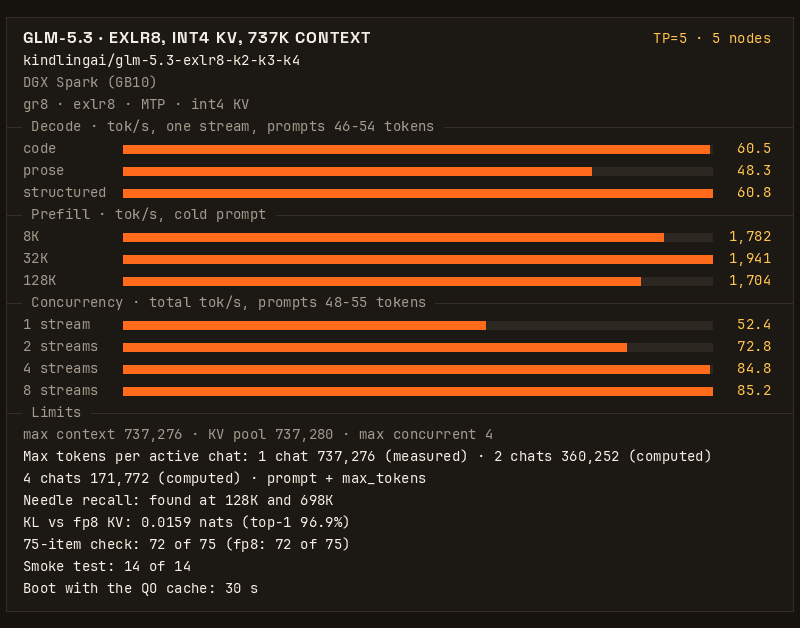
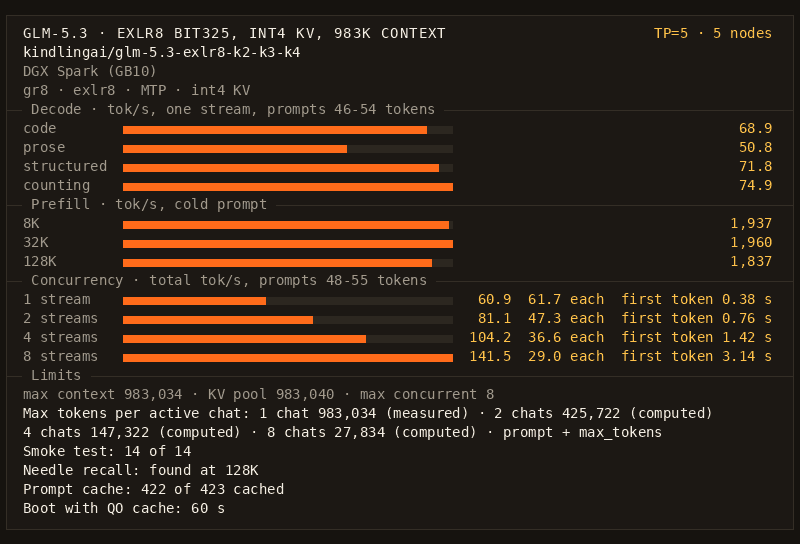
Pin gr8 v1.1.0, v0.6 bit325, 983K pool, MTP=3, SESS=8, and updated card (#4)

Changed region(s): [[0.0312, 0.0312, 0.9688, 0.9688], [0.9062, 0.0312, 0.9688, 0.0938], [0.8125, 0.0312, 0.8438, 0.0625]]

diff --git a/README.md b/README.md
@@ -1,114 +1,82 @@
-# KindlingAI: GLM-5.3 EXLR8 on five DGX Sparks (737K context)
+# KindlingAI: GLM-5.3 EXLR8 on five DGX Sparks (983K context)
 
 If you are an agent booting this for someone, read [AGENTS.md](AGENTS.md) first, then the Quickstart.
 
 _**Join our discord to learn more about KindlingAI and `gr8`: https://discord.gg/8EAvYPV2rE**_
 
-Full GLM-5.3 on five DGX Sparks (GB10, 128 GB each) at TP=5, served by [gr8](https://github.com/kindlingai/gr8) from
-[kindlingai/glm-5.3-exlr8-k2-k3-k4](https://huggingface.co/kindlingai/glm-5.3-exlr8-k2-k3-k4), tuned for 737K context:
-a 737,280-token int4 KV pool, four chats at once, and a QO cache that cuts the boot to under a minute. This recipe is the
-published gr8 image, pinned by digest, and one `.env` file. Nothing is compiled.
+Full GLM-5.3 on five DGX Sparks (GB10, 128 GB each) at TP=5, served by [gr8](https://github.com/kindlingai/gr8) `v1.1.0` from
+the `bit325` width profile of [kindlingai/glm-5.3-exlr8-k2-k3-k4](https://huggingface.co/kindlingai/glm-5.3-exlr8-k2-k3-k4/tree/3e388b45b26ca4558351d22994afcfc85b99af74) (v0.6):
+a 983,040-token int4 KV pool, MTP=3 drafting with confidence stopping, up to 8 concurrent chats, 8.8+ GiB free RAM per box,
+and a QO cache for ~60 s boots. This recipe is the published gr8 image, pinned by digest, and one `.env` file. Nothing is compiled.
 
-![GLM-5.3 on five DGX Sparks, 737K context: decode, prefill and limits](docs/card.png)
+![GLM-5.3 on five DGX Sparks, 983K context: decode, prefill and limits](docs/card.png)
 
-60.5 tok/s for one request writing code · 1,941 tok/s prefill on a 32K prompt · 4 requests at once, 84.8 tok/s in
-total · a 737,280-token KV pool · a fact hidden in a 698K prompt found · boot in 30 s
+68.9 tok/s for one request writing code · 1,960 tok/s prefill on a 32K prompt (1,837 tok/s at 128K) · 8 requests at once, 141.5 tok/s in total (160.5 tok/s in fast mode) · 8.8+ GiB free memory per box · a 983,040-token KV pool · a fact hidden in a 128K prompt found · boot in 60 s
 
 ## Results
 
-Five DGX Sparks on one switch, TP=5, this recipe's `.env` (int4 KV, the default) under Docker Compose on the gr8 image
-`sha-a555ee2` (one commit before the pinned v1.0; see [Engine pin](#engine-pin)), measured 2026-11-11 with gr8's own benchmark (`bench/bench.py`, default level), one boot.
-GPU clocks were uncapped in the timed stages. Every speed is in tokens per second (tok/s).
+Five DGX Sparks on a 200G switch, TP=5, `gr8 v1.1.0` (`cdd1e09`), this recipe's `.env` (`bit325` v0.6 experts, int4 KV, MTP=3 with confidence stopping, quality default `MOE_UNION_CAP=48`), measured 2026-11-20 with gr8's own benchmark (`bench/bench.py`, default level), one fresh boot. GPU clocks were uncapped in the timed stages. Every speed is in tokens per second (tok/s).
 
 One request, short prompts (46-54 tokens, up to 512 tokens out, 6 runs each):
 
 | work | code | prose | structured | counting |
 |---|---|---|---|---|
-| tok/s, mean | 60.5 | 48.3 | 60.8 | 62.0 |
-| 95% interval | 59.3 - 61.8 | 46.6 - 49.8 | 60.5 - 61.1 | 61.7 - 62.3 |
+| tok/s, mean | 68.9 | 50.8 | 71.8 | 74.9 |
+| lowest - highest run | 65.0 - 71.4 | 47.1 - 54.2 | 68.2 - 74.3 | 74.3 - 75.5 |
+| 95% interval | 67.2 - 70.6 | 48.8 - 52.7 | 70.2 - 73.2 | 74.6 - 75.3 |
 
 Prefill, cold prompt (one run each):
 
 | prompt | first token | prefill tok/s | decode after it | first token, same prompt again (cached) |
 |---|---|---|---|---|
-| 8K tokens | 4.6 s | 1,782 | 37.3 tok/s | 0.19 s |
-| 32K tokens | 16.8 s | 1,941 | 35.2 tok/s | 0.19 s |
-| 128K tokens | 76.8 s | 1,704 | 32.5 tok/s | 0.37 s |
+| 8K tokens | 4.25 s | 1,937 | 48.0 tok/s | 0.07 s |
+| 32K tokens | 16.74 s | 1,960 | 36.7 tok/s | 0.25 s |
+| 128K tokens | 71.34 s | 1,837 | 36.4 tok/s | 0.46 s |
 
 Requests at once (short mixed prompts, 48-55 tokens, up to 512 tokens out each):
 
 | requests at once | 1 | 2 | 4 | 8 |
 |---|---|---|---|---|
-| total tok/s | 52.4 | 72.8 | 84.8 | 85.2 |
-| tok/s per request | 53.0 | 39.6 | 26.1 | 25.8 |
-| first token, median | 0.39 s | 0.68 s | 1.43 s | 7.4 s |
+| total tok/s (quality default, `MOE_UNION_CAP=48`) | 60.9 | 81.1 | 104.2 | 141.5 |
+| tok/s per request (quality default) | 61.7 | 47.3 | 36.6 | 29.0 |
+| first token, median | 0.38 s | 0.76 s | 1.42 s | 3.14 s |
 
-Four chats decode at once (`SESS=4`). With eight requests, four wait for a slot: that is the 7.4 s first token.
+### Speed and quality presets (`MOE_UNION_CAP`)
 
-Checks on the same boot:
+`gr8 v1.1.0` enables seven bit-exact decode and prefill kernels (`KL = 0.00000`), `DEC_BK_MAX=2048` (raising free memory per box from 2.8 GiB to 8.8+ GiB even with a 33% larger KV pool and 8 sessions), and a batch-budgeted MoE expert union cap (`MOE_UNION_CAP`):
+
+| preset (`.env`) | code decode | 4 streams total (per req) | 8 streams total (per req) | prefill 8K / 32K / 128K |
+|---|---:|---:|---:|---:|
+| **Quality (default, `MOE_UNION_CAP=48`)** | 68.9 tok/s | 104.2 (36.6) tok/s | 141.5 (29.0) tok/s | 1,937 / 1,960 / 1,837 tok/s |
+| **Fast (`MOE_UNION_CAP=32`)** | 69.3 tok/s | 119.6 (42.2) tok/s | 160.5 (33.9) tok/s | 1,979 / 2,010 / 1,826 tok/s |
+| **Uncapped exact (`MOE_UNION_CAP=0`)** | 69.2 tok/s | 89.5 (30.8) tok/s | 110.5 (18.5) tok/s | 1,986 / 2,059 / 1,855 tok/s |
+
+All three presets were measured on fresh boots on 2026-11-20 (`bench/bench.py` default level for Quality and Uncapped exact, `--quick` for Fast, 0 suspect characters across all three runs).
+
+### How long each chat can be
+
+The KV pool holds 983,040 tokens (3,481 physical pages of 64 tokens per rank). The first 32,768 tokens (`SHARE_LIMIT`) of each chat are stored on every box, and the rest is spread across the five boxes. Each active chat reserves its prompt plus `max_tokens`:
+
+| active chats | 1 | 2 | 3 | 4 | 8 |
+|---|---:|---:|---:|---:|---:|
+| tokens per chat, equal split | 983,034 | 425,722 | 240,122 | 147,322 | 27,834 |
+
+The 1-chat value is measured (the served `max_model_len`); the multi-chat values are computed from the pool size (3,481 physical pages per rank). Up to 8 chats decode simultaneously (`SESS=8`). A finished chat's cached prefix does not count against active chats.
+
+Checks on the same `v1.1.0` default boot:
 
 | check | result |
 |---|---|
 | smoke test | 14 of 14 |
-| fact hidden in a 131,213-token prompt | found |
-| fact hidden in a 698,500-token prompt (a separate request on the same boot) | found; first token after 630 s |
+| fact hidden in a 131,270-token prompt | found |
 | count to 200, three times | 3 of 3 clean |
-| KL against the fp8 KV format, 4,096 positions | mean 0.0159, top-1 agreement 96.9% |
-| 75-item quality check (code, math, prose) | 72 of 75; the fp8 KV format scored 72 of 75 on the same boxes that night |
-| longest context (`max_model_len`) | 737,276 tokens |
-| boot to `/health` 200 with the QO cache | 30 s (model already on disk) |
-| lowest `MemAvailable` recorded on any box, 698K prompt included | 2.82 GiB |
+| prompt cache | 422 of 423 cached |
+| suspect characters | 0 replies |
+| longest context (`max_model_len`) | 983,034 tokens |
+| boot to `/health` 200 with the QO cache | 60 s (model already on disk) |
+| lowest `MemAvailable` recorded on any box | 8.77 GiB after bench (9.30 - 9.43 GiB after boot) |
 
-The boot that writes the QO cache took 99 s and 104 s (two boots, both with fp8 KV, [below](#fp8-kv-the-rollback)).
-The int4 boot read the cache that an fp8 boot wrote.
-
-### How long each chat can be
-
-The KV pool holds 737,280 tokens. The first 4,096 tokens of each chat are stored on every box, and the rest is spread
-over the five boxes. So the limit for each chat (prompt plus `max_tokens`) depends on how many chats are active:
-
-| active chats | 1 | 2 | 4 |
-|---|---:|---:|---:|
-| tokens per chat, equal split | 737,276 | 360,252 | 171,772 |
-
-The 1-chat value is the served `max_model_len`; the longest prompt that was run is 698,500 tokens. The 2-chat and
-4-chat values are computed from the pool size (2,355 pages of 64 tokens per box, from the boot log), not measured.
-`SESS=4`: a fifth chat waits. A finished chat's cached prefix does not count against active chats.
-
-int4 KV stores the attention latent in 4 bits: a row is 416 bytes, against 656 with fp8. The pool is 20% larger and
-uses less memory (7.0 GB a box with the MTP pool, against 8.5 GB).
-
-### fp8 KV (the rollback)
-
-`.env.example` has two commented lines (`KV_FORMAT=fp8`, `CAP=617536`) that give the earlier KV format. Measured
-2026-11-11 on the same image and boxes, one boot, the same benchmark, with this repo's `compose.yaml`:
-
-| measure | fp8 KV |
-|---|---|
-| one request: code / prose / structured / counting | 61.9 / 48.8 / 61.8 / 63.1 tok/s |
-| prefill, cold 8K / 32K / 128K | 1,774 / 1,878 / 1,743 tok/s |
-| 1 / 2 / 4 / 8 requests at once, total | 56.1 / 69.8 / 81.6 / 87.0 tok/s |
-| longest context (`max_model_len`) | 617,532 tokens |
-| tokens per chat with 1 / 2 / 4 active chats | 617,532 / 300,412 / 142,012 (2 and 4 computed from 1,981 pages a box) |
-| boot to `/health` 200: first boot (writes the QO cache) / later boots | 99 s / 28 s |
-| lowest `MemAvailable` recorded on any box | 1.97 GiB; 1.78 GiB on a second fp8 boot that night |
-
-### Earlier measurements (October 2026)
-
-This TP=5 setup was first measured on 2026-10-19 on a pre-release TP=5 build of gr8, on bare metal, with the GPU clock
-capped at 2000 MHz and a steering profile loaded (this recipe ships none). These rows have no match in the benchmark
-above:
-
-| measure | value |
-|---|---|
-| first token, 157K prompt | 115.8 s (mean of 2) |
-| decode at 157K context | 24.5 tok/s |
-| 90K chat decode: 1 chat / 4 chats total | 25.8 / 44.1 tok/s (means of 2) |
-| 15 minutes of mixed agent load | 107 requests, 0 errors |
-| 4 chats of 139K at once | all resident, next-turn first token 5.0-5.6 s |
-| fact hidden at 437K | found |
-
-[kindling.json](kindling.json) has the card's numbers in a form a program can read.
+[kindling.json](kindling.json) has these numbers in a form a program can read. The card above is drawn from it.
 
 ## Quickstart
 
@@ -124,7 +92,7 @@ docker compose up -d       # pulls the pinned gr8 image; the first boot fetches 
 docker compose logs -f     # this box's supervisor; ready when the cluster serves
 ```
 
-The first boot also writes the QO cache (13 GB a box) to `/srv/gr8/cache/qocache`. Later boots read it. The engine
+The first boot also writes the QO cache (13 GB a box) to `/srv/gr8/cache/qocache`. Later boots read it (~60 s). The engine
 does not make that directory: without the `mkdir` line no cache is written, and every boot takes the long time.
 For another place, change `GR8_CACHE` in `.env` and make its `qocache` directory the same way.
 
@@ -132,7 +100,7 @@ Then, on the head (the first address in `PEERS`):
 
 ```bash
 docker compose exec gr8 /opt/gr8/gr8 glm53 smoke
-curl -s localhost:8100/v1/models      # max_model_len 737276
+curl -s localhost:8100/v1/models      # max_model_len 983034
 ```
 
 The head serves an OpenAI-compatible API on port 8100. Stop the cluster with
@@ -140,39 +108,26 @@ The head serves an OpenAI-compatible API on port 8100. Stop the cluster with
 
 ## What you need
 
-- Five DGX Sparks or other GB10 boxes (128 GB unified memory), with nothing else holding much memory. The lowest
-  `MemAvailable` measured was 2.82 GiB (1.78 GiB with fp8 KV), so a box runs this model and nothing else.
+- Five DGX Sparks or other GB10 boxes (128 GB unified memory), with nothing else holding much memory (8.8+ GiB free
+  per box measured at `CAP=983,040`).
 - A RoCE v2 fabric between the ConnectX-7 ports through one 200G switch. Five boxes do not work as a ring.
 - A LAN between the boxes with TCP ports 7340 and 7341 open.
 - Docker with the NVIDIA container toolkit (DGX OS has both).
-- About 90 GB of disk a box for the model and 13 GB for the QO cache.
+- About 75 GB of disk a box for the model (`~59.9 GB` of experts on the busiest rank at TP=5) and 13 GB for the QO cache.
 - Proactive memory compaction off on every box:
   `sudo sysctl -w vm.compaction_proactiveness=0` (gr8's
   [DEPLOY.md](https://github.com/kindlingai/gr8/blob/main/docs/DEPLOY.md#before-you-start) has the permanent form).
 
-## The 737K-context settings
+## The 983K-context settings
 
-This recipe uses the decode settings of gr8's four-box setup, plus five settings measured at TP=5 (`GR8_K1_TLBW=2048`,
-`PF_GEMMF32=1`, `ATTN_CTX3=4`, `PF_ISGRT_RG=32`, `PF_ATTN_ROWS=512`), plus:
+Every line is in [.env.example](.env.example). Highlights over the `v1.0` recipe:
 
-- `PF_OWN=3` with `QO_CACHE`: the boot took 30 s with the cache and 99-104 s on the boots that wrote it.
-- `KV_FORMAT=int4` with `CAP=737280`, and five `GR8_KV4_*` settings in `EXTRA_ENV` for the int4 attention kernels.
-- `KVB=fp8`, `MTP=2`, `SESS=4`, `SHARE_LIMIT=4096`.
+- `gr8 v1.1.0` with `bit325` v0.6 weights, seven bit-exact decode/prefill kernels, `DEC_BK_MAX=2048`, and `MOE_UNION_CAP=48` (`32` for fast concurrency, `0` for uncapped exact).
+- `MTP=3` with solo (`MTP_KSTOP`) and shared-batch (`MTP_KSTOPB`) confidence stopping, `MTP_LASTROW=1`, `DRAFT_HEAD2=1`, `L2PF=31`, `MTP_L2PF=3`.
+- `KV_FORMAT=int4` with `KVB=bf16`, `KV4_FOLD=1`, `KV4_TC=1`, `CAP=983,040`, `SHARE_LIMIT=32,768`, `SESS=8`, and `REUSE_GRID=64`.
+- `PF_OWN=3` with `QO_CACHE` and `PF_GEMMF32=1`.
 
-Every line is in [.env.example](.env.example). gr8's
-[SETTINGS.md](https://github.com/kindlingai/gr8/blob/main/docs/SETTINGS.md) explains each setting.
-
-Tried at TP=5 in October 2026, on the pre-release build, and left off:
-
-| setting | what happened |
-|---|---|
-| `GR8_L2PF` | 0.4 GB less free memory, no gain under mixed load |
-| `PF_OWNPERM=1` | the output changes (prefill KL 0.0031), 8K prefill 6.7% slower |
-| `QA_SPLIT=2` | 32K prefill 5% slower |
-| `SHARE_LIMIT=8192` | the fourth 128K chat is evicted, 90K decode 4% slower |
-
-`KV_FORMAT=int4` was also tried then, with `CAP=810496`: 1 to 4% slower, and left off. gr8 has faster int4 kernels
-since; on the `sha-a555ee2` image int4 is this recipe's default, at `CAP=737280` ([Results](#results)).
+gr8's [SETTINGS.md](https://github.com/kindlingai/gr8/blob/main/docs/SETTINGS.md) explains each setting.
 
 ## Option: remote KV on a sixth Spark (experimental)
 
@@ -184,8 +139,6 @@ This was measured on 2026-10-20 as test runs on a pre-release build. It was neve
 
 - 10 chats of about 22K on a reduced pool, 30 requests per arm: median first token on restore 2.03 s with the store,
   14.24 s without it. Outputs equal 30 of 30.
-- On the full TP=5 settings: 8K / 32K prefill 1,570 / 1,545 tok/s and prose decode 39.5 tok/s (inside the noise of
-  the October numbers for the same build: 1,572 / 1,569 / 39.8). A fact hidden at 500,460 tokens was found. Lowest free memory 2.45 GB.
 - 4 chats of about 97.5K, pushed out of the pool by a 355K prompt, came back from the sixth box with a first token
   in 1.26-5.51 s. A full prefill takes about 67 s.
 - Limits: the sixth box locks 106 GiB of RAM; five boxes share its one 200G port; the store is empty after a
@@ -208,17 +161,13 @@ This recipe has no engine code. It runs one published gr8 image, named by tag an
 
 | | |
 |---|---|
-| engine | [kindlingai/gr8](https://github.com/kindlingai/gr8) [`v1.0`](https://github.com/kindlingai/gr8/releases/tag/v1.0) at [`db6f2c1`](https://github.com/kindlingai/gr8/commit/db6f2c17c7b05303b69ce667e416d10340aeb9b7) |
-| image | `ghcr.io/kindlingai/gr8:v1.0` |
-| digest | `sha256:11ff2823184b0512ae62e0f1c281c46941cfb0fd81096e1dac4c313ad3fe9413` |
+| engine | [kindlingai/gr8](https://github.com/kindlingai/gr8) [`v1.1.0`](https://github.com/kindlingai/gr8/releases/tag/v1.1.0) at [`cdd1e09`](https://github.com/kindlingai/gr8/commit/cdd1e0931047f55bba8f682a0ae79c4198668ca3) |
+| image | `ghcr.io/kindlingai/gr8:v1.1.0` |
+| digest | `sha256:b22eedbd7902f65dbf2090897d75f5d92276cbf78a16bcde1f958aa56a306cf7` |
 
-The results above were measured on the image of gr8 commit [`a555ee2`](https://github.com/kindlingai/gr8/commit/a555ee2a078946332769b5cd412ba3c73c46e242) (`ghcr.io/kindlingai/gr8:sha-a555ee2`). v1.0 is one commit after it, and that commit changes only the README, the docs, the benchmark tools and their result files, not the engine source. This recipe was not booted again on the v1.0 image.
+`python3 check.py` checks that `compose.yaml` and `kindling.json` name the same image; CI runs it on every pull request.
 
-After v1.0, the pin moves to a newer gr8 release only after this recipe was booted and measured on it. `python3 check.py` checks
-that `compose.yaml` and `kindling.json` name the same image; CI runs it on every pull request.
-
-For five boxes with gr8's own defaults (502,848-token pool, eight chats), use
-[glm-5.3-exlr8-4x-spark](https://github.com/kindlingai/glm-5.3-exlr8-4x-spark) with five addresses in `PEERS`.
+For four boxes, see [glm-5.3-exlr8-4x-spark](https://github.com/kindlingai/glm-5.3-exlr8-4x-spark).
 For six boxes, see [glm-5.3-exlr8-6x-spark](https://github.com/kindlingai/glm-5.3-exlr8-6x-spark).
 
 ## License

diff --git a/AGENTS.md b/AGENTS.md
@@ -1,4 +1,4 @@
-# For agents: boot GLM-5.3 on five DGX Sparks (737K context)
+# For agents: boot GLM-5.3 on five DGX Sparks (983K context)
 
 You are booting this recipe for someone. Follow the steps in order and run each check. If a check fails, stop and
 tell the person what failed. If this file and `compose.yaml` or `.env.example` disagree, follow those two files and
@@ -36,7 +36,7 @@ On the head:
 
 - `docker compose exec gr8 /opt/gr8/gr8 glm53 health` exits 0.
 - `docker compose exec gr8 /opt/gr8/gr8 glm53 smoke` passes 14 of 14.
-- `curl -s localhost:8100/v1/models` shows `max_model_len` 737276.
+- `curl -s localhost:8100/v1/models` shows `max_model_len` 983034.
 - After the first boot, the `qocache` directory holds 78 `.qo.bin` files (13 GB).
 
 ## 5. Stop
